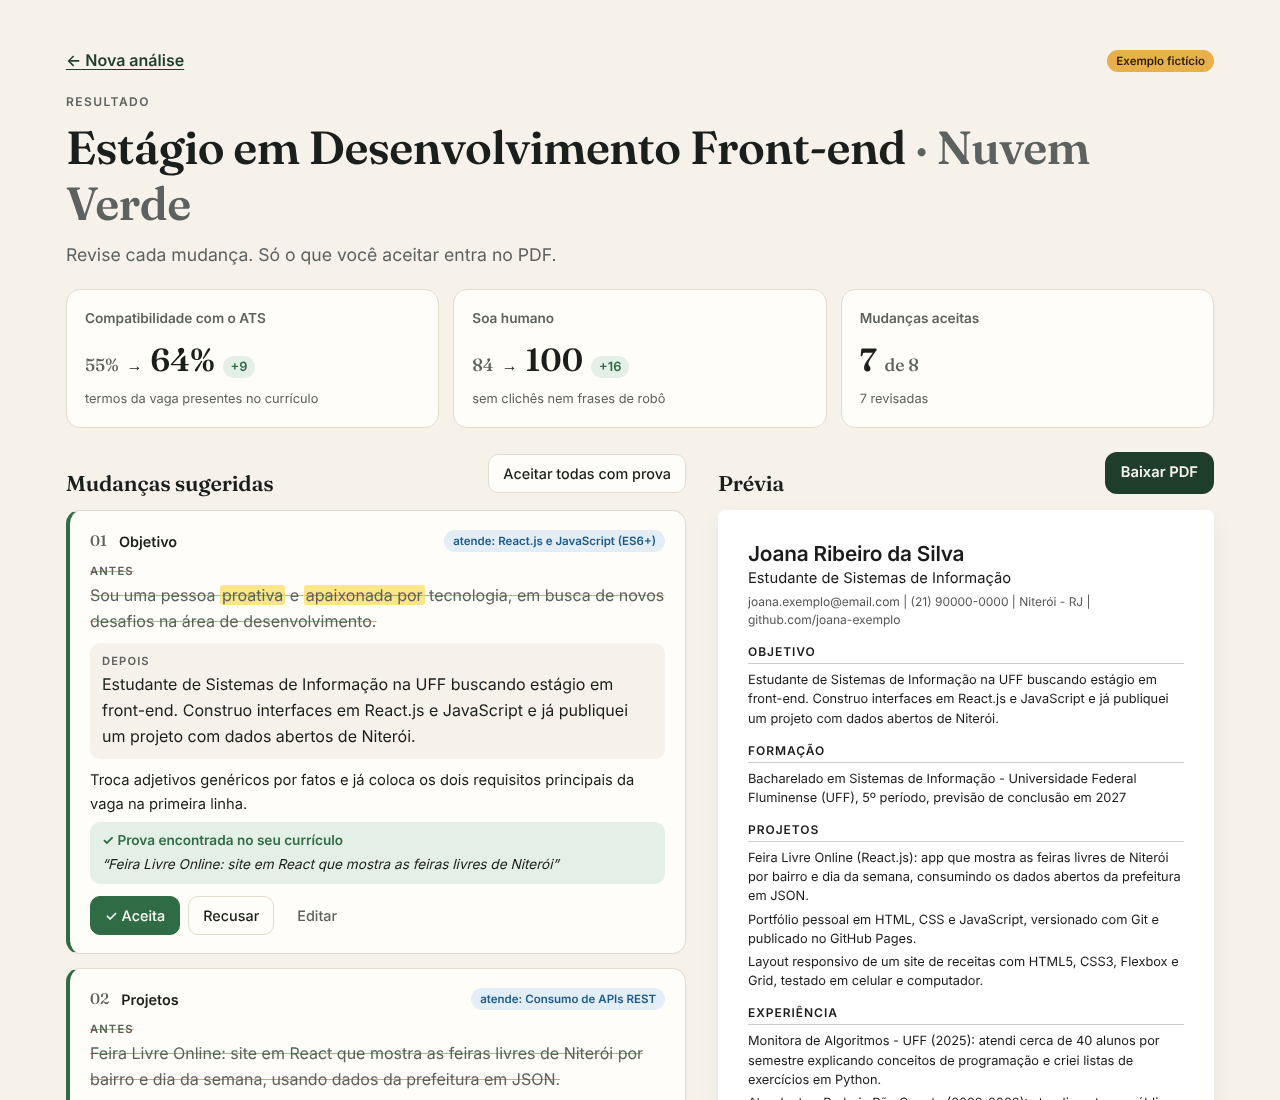
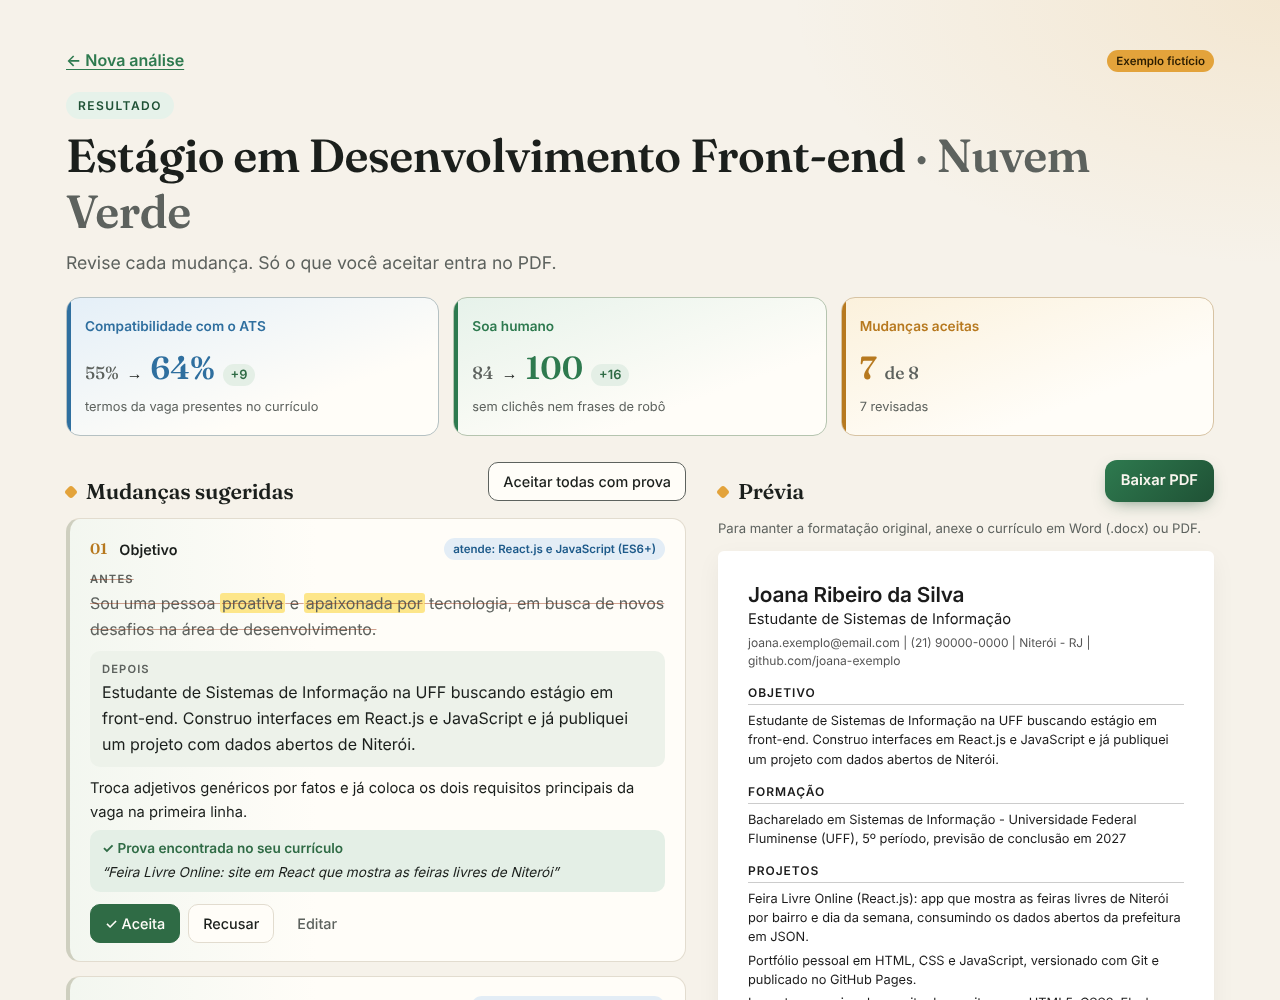
Dá mais cor ao visual, com uma cor para cada parte
Verde para a vaga e ações, terracota para a empresa, azul para o currículo
e o ATS, âmbar para o que a pessoa acrescenta e destaques. Tons suaves,
com versão para o modo escuro. Prints do README atualizados.

Claude-Session: https://claude.ai/code/session_01MunahPr83K7WhmRHSxt5eJ

diff --git a/src/styles.css b/src/styles.css
@@ -4,9 +4,19 @@
   --ink: #1b1f1c;
   --muted: #5d625e;
   --line: #e2dccf;
-  --brand: #1f3d2b;
-  --brand-ink: #f6f2ea;
-  --accent: #e8b04a;
+  --brand: #1f5135;
+  --brand-2: #2e7a4f;
+  --brand-ink: #f8f5ee;
+  --accent: #e3a33b;
+  /* Uma cor para cada parte do formulário, em tons suaves */
+  --c-vaga: #2e7a4f;
+  --c-vaga-bg: #e6f2ea;
+  --c-empresa: #c4583c;
+  --c-empresa-bg: #fbe9e2;
+  --c-cv: #2f6f9f;
+  --c-cv-bg: #e4eff8;
+  --c-extra: #b7791f;
+  --c-extra-bg: #fbf1dc;
   --ok: #2f6b45;
   --ok-bg: #e4efe6;
   --add: #1d5a8a;
@@ -28,8 +38,17 @@
     --ink: #ece7dc;
     --muted: #a3a89f;
     --line: #2d332e;
-    --brand: #b8d8c2;
-    --brand-ink: #10241a;
+    --brand: #9fd6b2;
+    --brand-2: #7cc497;
+    --brand-ink: #0f2318;
+    --c-vaga: #8fd0a4;
+    --c-vaga-bg: #1a3324;
+    --c-empresa: #f0a088;
+    --c-empresa-bg: #3a2119;
+    --c-cv: #8cc2ec;
+    --c-cv-bg: #172a3a;
+    --c-extra: #f0c36a;
+    --c-extra-bg: #3a2d14;
     --ok: #8fd0a4;
     --ok-bg: #1d3325;
     --add: #8cc2ec;
@@ -44,7 +63,11 @@
 * { box-sizing: border-box; }
 html, body { margin: 0; }
 body {
-  background: var(--paper);
+  background:
+    radial-gradient(900px 420px at 8% -8%, color-mix(in srgb, var(--c-vaga) 13%, transparent), transparent 70%),
+    radial-gradient(700px 380px at 100% 0%, color-mix(in srgb, var(--accent) 14%, transparent), transparent 70%),
+    var(--paper);
+  background-repeat: no-repeat;
   color: var(--ink);
   font: 16px/1.6 var(--sans);
   -webkit-font-smoothing: antialiased;
@@ -216,3 +239,67 @@ mark.cliche { background: var(--cliche-bg); color: inherit; border-radius: 3px; 
   .scores { grid-template-columns: 1fr; }
   .pill-req { margin-left: 0; }
 }
+
+
+/* ---------- Cor ---------- */
+.eyebrow-pill {
+  display: inline-block; color: var(--brand); background: var(--c-vaga-bg);
+  padding: 4px 12px; border-radius: 99px;
+}
+.hl {
+  background: linear-gradient(transparent 62%, color-mix(in srgb, var(--accent) 45%, transparent) 62%);
+  padding: 0 2px; border-radius: 2px;
+}
+
+.form { position: relative; overflow: hidden; }
+.form::before {
+  content: ""; position: absolute; inset: 0 0 auto 0; height: 5px;
+  background: linear-gradient(90deg, var(--c-vaga), var(--c-cv), var(--accent), var(--c-empresa));
+}
+.field { --c: var(--c-vaga); --c-bg: var(--c-vaga-bg); }
+.field-empresa { --c: var(--c-empresa); --c-bg: var(--c-empresa-bg); }
+.field-curriculo { --c: var(--c-cv); --c-bg: var(--c-cv-bg); }
+.field-extra { --c: var(--c-extra); --c-bg: var(--c-extra-bg); }
+.field-label { align-items: center; }
+.step {
+  display: inline-grid; place-items: center; width: 24px; height: 24px; border-radius: 50%;
+  background: var(--c); color: var(--surface); font-size: 0.78rem; font-weight: 700; flex: none;
+}
+.field .required { background: var(--c); color: var(--surface); }
+.field .optional { background: var(--c-bg); color: var(--c); }
+.field textarea:focus { outline-color: var(--c); border-color: var(--c); }
+.field textarea { transition: border-color 0.15s, box-shadow 0.15s; }
+.field textarea:focus { box-shadow: 0 0 0 4px var(--c-bg); }
+
+.dropzone { border-color: color-mix(in srgb, var(--c-cv) 45%, var(--line)); background: color-mix(in srgb, var(--c-cv-bg) 55%, var(--paper)); }
+.dropzone:hover, .dropzone.is-dragging { border-color: var(--c-cv); background: var(--c-cv-bg); }
+.drop-icon { width: 28px; height: 28px; color: var(--c-cv); margin-bottom: 2px; }
+
+.primary { background: linear-gradient(135deg, var(--brand-2), var(--brand)); box-shadow: 0 6px 18px -8px color-mix(in srgb, var(--brand) 70%, transparent); }
+.primary:hover:not(:disabled) { box-shadow: 0 10px 22px -10px color-mix(in srgb, var(--brand) 80%, transparent); }
+.link-button { color: var(--brand-2); }
+
+/* Resultado */
+.score { position: relative; overflow: hidden; --c: var(--c-vaga); --c-bg: var(--c-vaga-bg); background: linear-gradient(160deg, var(--c-bg), var(--surface) 70%); border-color: color-mix(in srgb, var(--c) 25%, var(--line)); }
+.score::before { content: ""; position: absolute; inset: 0 auto 0 0; width: 4px; background: var(--c); }
+.score-ats { --c: var(--c-cv); --c-bg: var(--c-cv-bg); }
+.score-human { --c: var(--c-vaga); --c-bg: var(--c-vaga-bg); }
+.score-accepted { --c: var(--c-extra); --c-bg: var(--c-extra-bg); }
+.score .score-label { color: var(--c); }
+.score .delta strong { color: var(--c); }
+
+.review h2, .preview-col h2 { display: flex; align-items: center; gap: 10px; }
+.review h2::before, .preview-col h2::before {
+  content: ""; width: 10px; height: 10px; border-radius: 3px; background: var(--accent); transform: rotate(45deg); flex: none;
+}
+.suggestion-index { color: var(--c-extra); font-weight: 600; }
+.suggestion.is-aceita { background: linear-gradient(90deg, color-mix(in srgb, var(--ok-bg) 45%, var(--surface)), var(--surface) 40%); }
+.diff-after { background: color-mix(in srgb, var(--c-vaga-bg) 55%, var(--paper)); }
+.btn-accept:not(.is-on):hover { border-color: var(--ok); color: var(--ok); }
+.btn-reject:not(.is-on):hover { border-color: var(--warn); color: var(--warn); }
+.bridge { background: linear-gradient(90deg, var(--c-extra-bg), var(--surface)); }
+.gaps li::marker { color: var(--c-empresa); font-weight: 700; }
+.gap-head .pill { background: var(--c-empresa-bg); color: var(--c-empresa); }
+.questions > div { border-left: 3px solid var(--c-cv-bg); padding-left: 12px; }
+.questions dt { color: var(--c-cv); }
+.pill-demo { background: var(--accent); }

diff --git a/src/pages/FormPage.tsx b/src/pages/FormPage.tsx
@@ -86,8 +86,10 @@ export default function FormPage() {
   return (
     <main className="page page-form">
       <header className="hero">
-        <p className="eyebrow">Currículo Sob Medida</p>
-        <h1>Seu currículo, ajustado para cada vaga — sem inventar nada.</h1>
+        <p className="eyebrow eyebrow-pill">Currículo Sob Medida</p>
+        <h1>
+          Seu currículo, ajustado para cada vaga — <span className="hl">sem inventar nada.</span>
+        </h1>
         <p className="lede">
           Cada mudança mostra de onde veio no seu currículo e qual requisito da vaga ela atende. Você aprova uma por uma e
           baixa o PDF.
@@ -98,8 +100,9 @@ export default function FormPage() {
       </header>
 
       <form className="card form" onSubmit={onSubmit} aria-busy={loading}>
-        <label className="field">
+        <label className="field field-vaga">
           <span className="field-label">
+            <span className="step" aria-hidden>1</span>
             Sobre a vaga <em className="required">obrigatório</em>
           </span>
           <span className="field-hint">Cole a descrição completa: atividades, requisitos, diferenciais.</span>
@@ -112,8 +115,9 @@ export default function FormPage() {
           />
         </label>
 
-        <label className="field">
+        <label className="field field-empresa">
           <span className="field-label">
+            <span className="step" aria-hidden>2</span>
             Sobre a empresa <em className="optional">opcional</em>
           </span>
           <span className="field-hint">Missão, valores, cultura, produto — do site, do LinkedIn ou da própria vaga.</span>
@@ -125,8 +129,9 @@ export default function FormPage() {
           />
         </label>
 
-        <div className="field">
+        <div className="field field-curriculo">
           <span className="field-label">
+            <span className="step" aria-hidden>3</span>
             Seu currículo <em className="required">obrigatório</em>
           </span>
           {pasteMode ? (
@@ -167,6 +172,9 @@ export default function FormPage() {
                 </>
               ) : (
                 <>
+                  <svg className="drop-icon" viewBox="0 0 24 24" aria-hidden>
+                    <path d="M12 16V4m0 0-4 4m4-4 4 4M5 15v3a2 2 0 0 0 2 2h10a2 2 0 0 0 2-2v-3" fill="none" stroke="currentColor" strokeWidth="1.8" strokeLinecap="round" strokeLinejoin="round" />
+                  </svg>
                   <strong>Anexe seu currículo</strong>
                   <span>Arraste aqui ou clique — PDF, DOCX ou TXT</span>
                 </>
@@ -183,8 +191,9 @@ export default function FormPage() {
           )}
         </div>
 
-        <label className="field">
+        <label className="field field-extra">
           <span className="field-label">
+            <span className="step" aria-hidden>4</span>
             O que não está no seu currículo <em className="optional">opcional</em>
           </span>
           <span className="field-hint">

diff --git a/src/pages/ResultPage.tsx b/src/pages/ResultPage.tsx
@@ -129,7 +129,7 @@ export default function ResultPage() {
       </nav>
 
       <header className="result-head">
-        <p className="eyebrow">Resultado</p>
+        <p className="eyebrow eyebrow-pill">Resultado</p>
         <h1>
           {result.jobTitle || "Sua vaga"}
           {result.companyName && <span className="muted"> · {result.companyName}</span>}
@@ -138,17 +138,17 @@ export default function ResultPage() {
       </header>
 
       <section className="scores" aria-label="Indicadores">
-        <div className="score">
+        <div className="score score-ats">
           <span className="score-label">Compatibilidade com o ATS</span>
           <Delta before={data.ats.before} after={data.ats.after} suffix="%" />
           <span className="score-hint">termos da vaga presentes no currículo</span>
         </div>
-        <div className="score">
+        <div className="score score-human">
           <span className="score-label">Soa humano</span>
           <Delta before={data.human.before} after={data.human.after} />
           <span className="score-hint">sem clichês nem frases de robô</span>
         </div>
-        <div className="score">
+        <div className="score score-accepted">
           <span className="score-label">Mudanças aceitas</span>
           <span className="delta"><strong>{accepted}</strong><span className="delta-before">de {total}</span></span>
           <span className="score-hint">{reviewed} revisadas</span>
